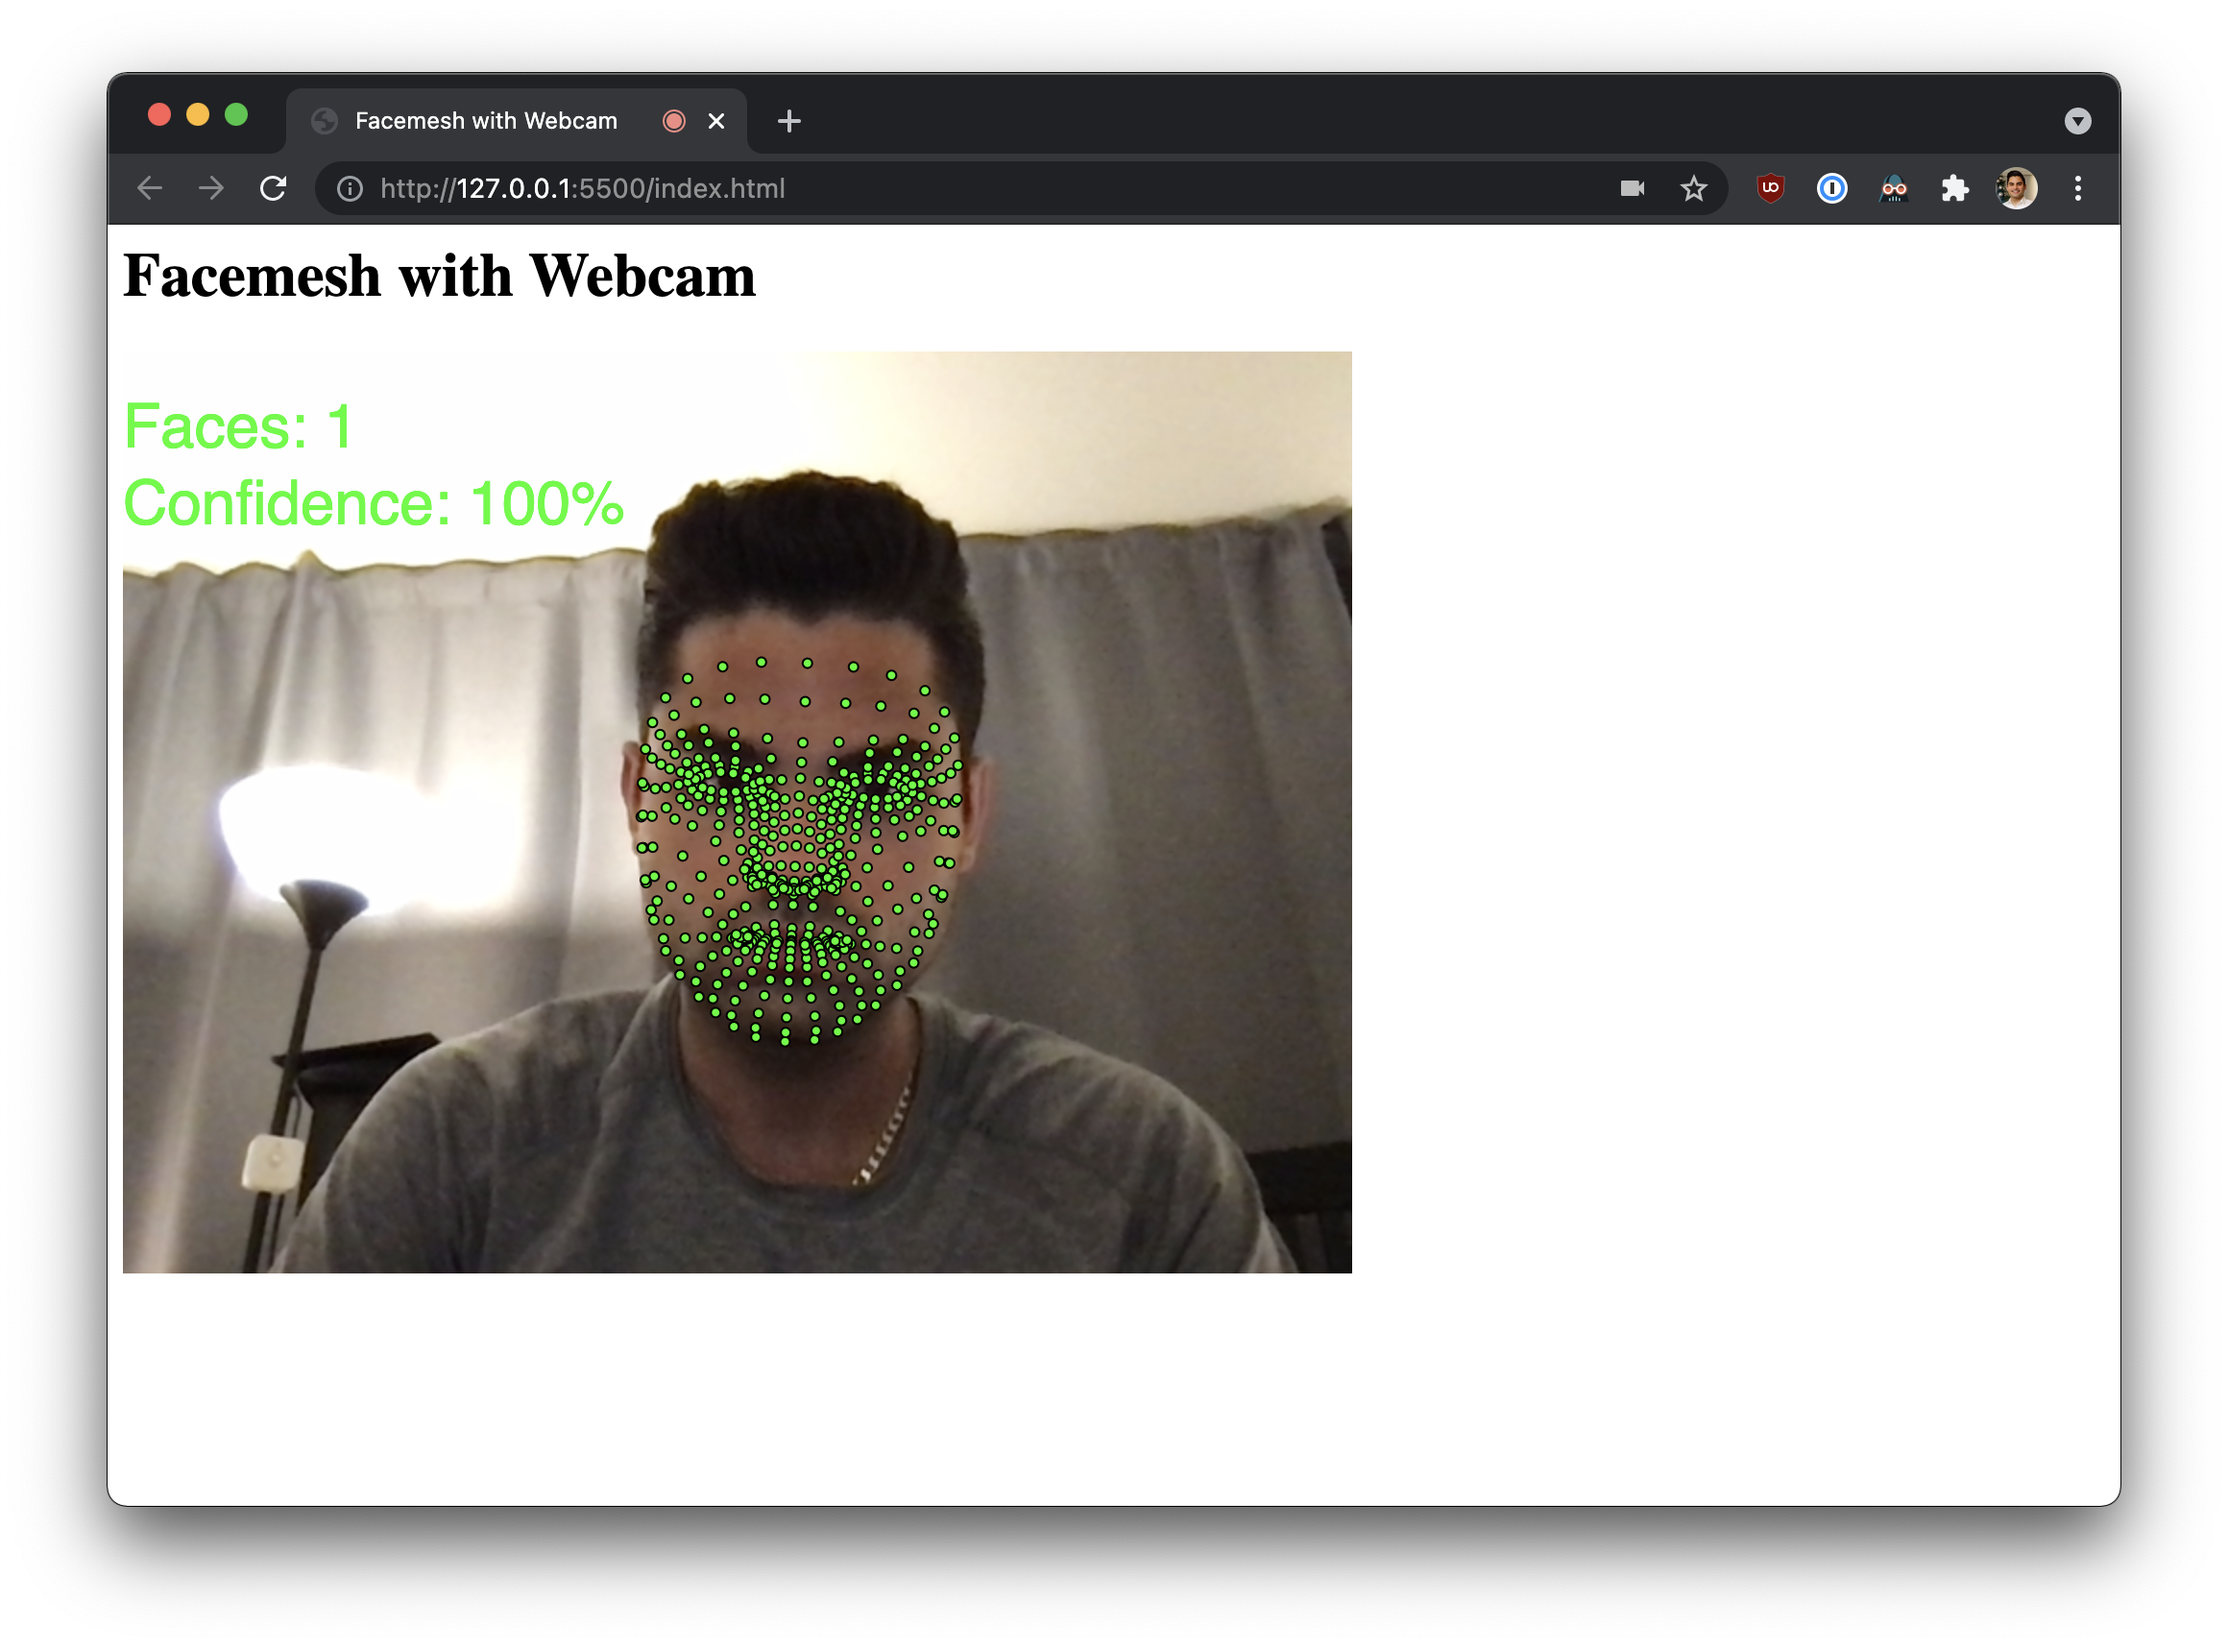
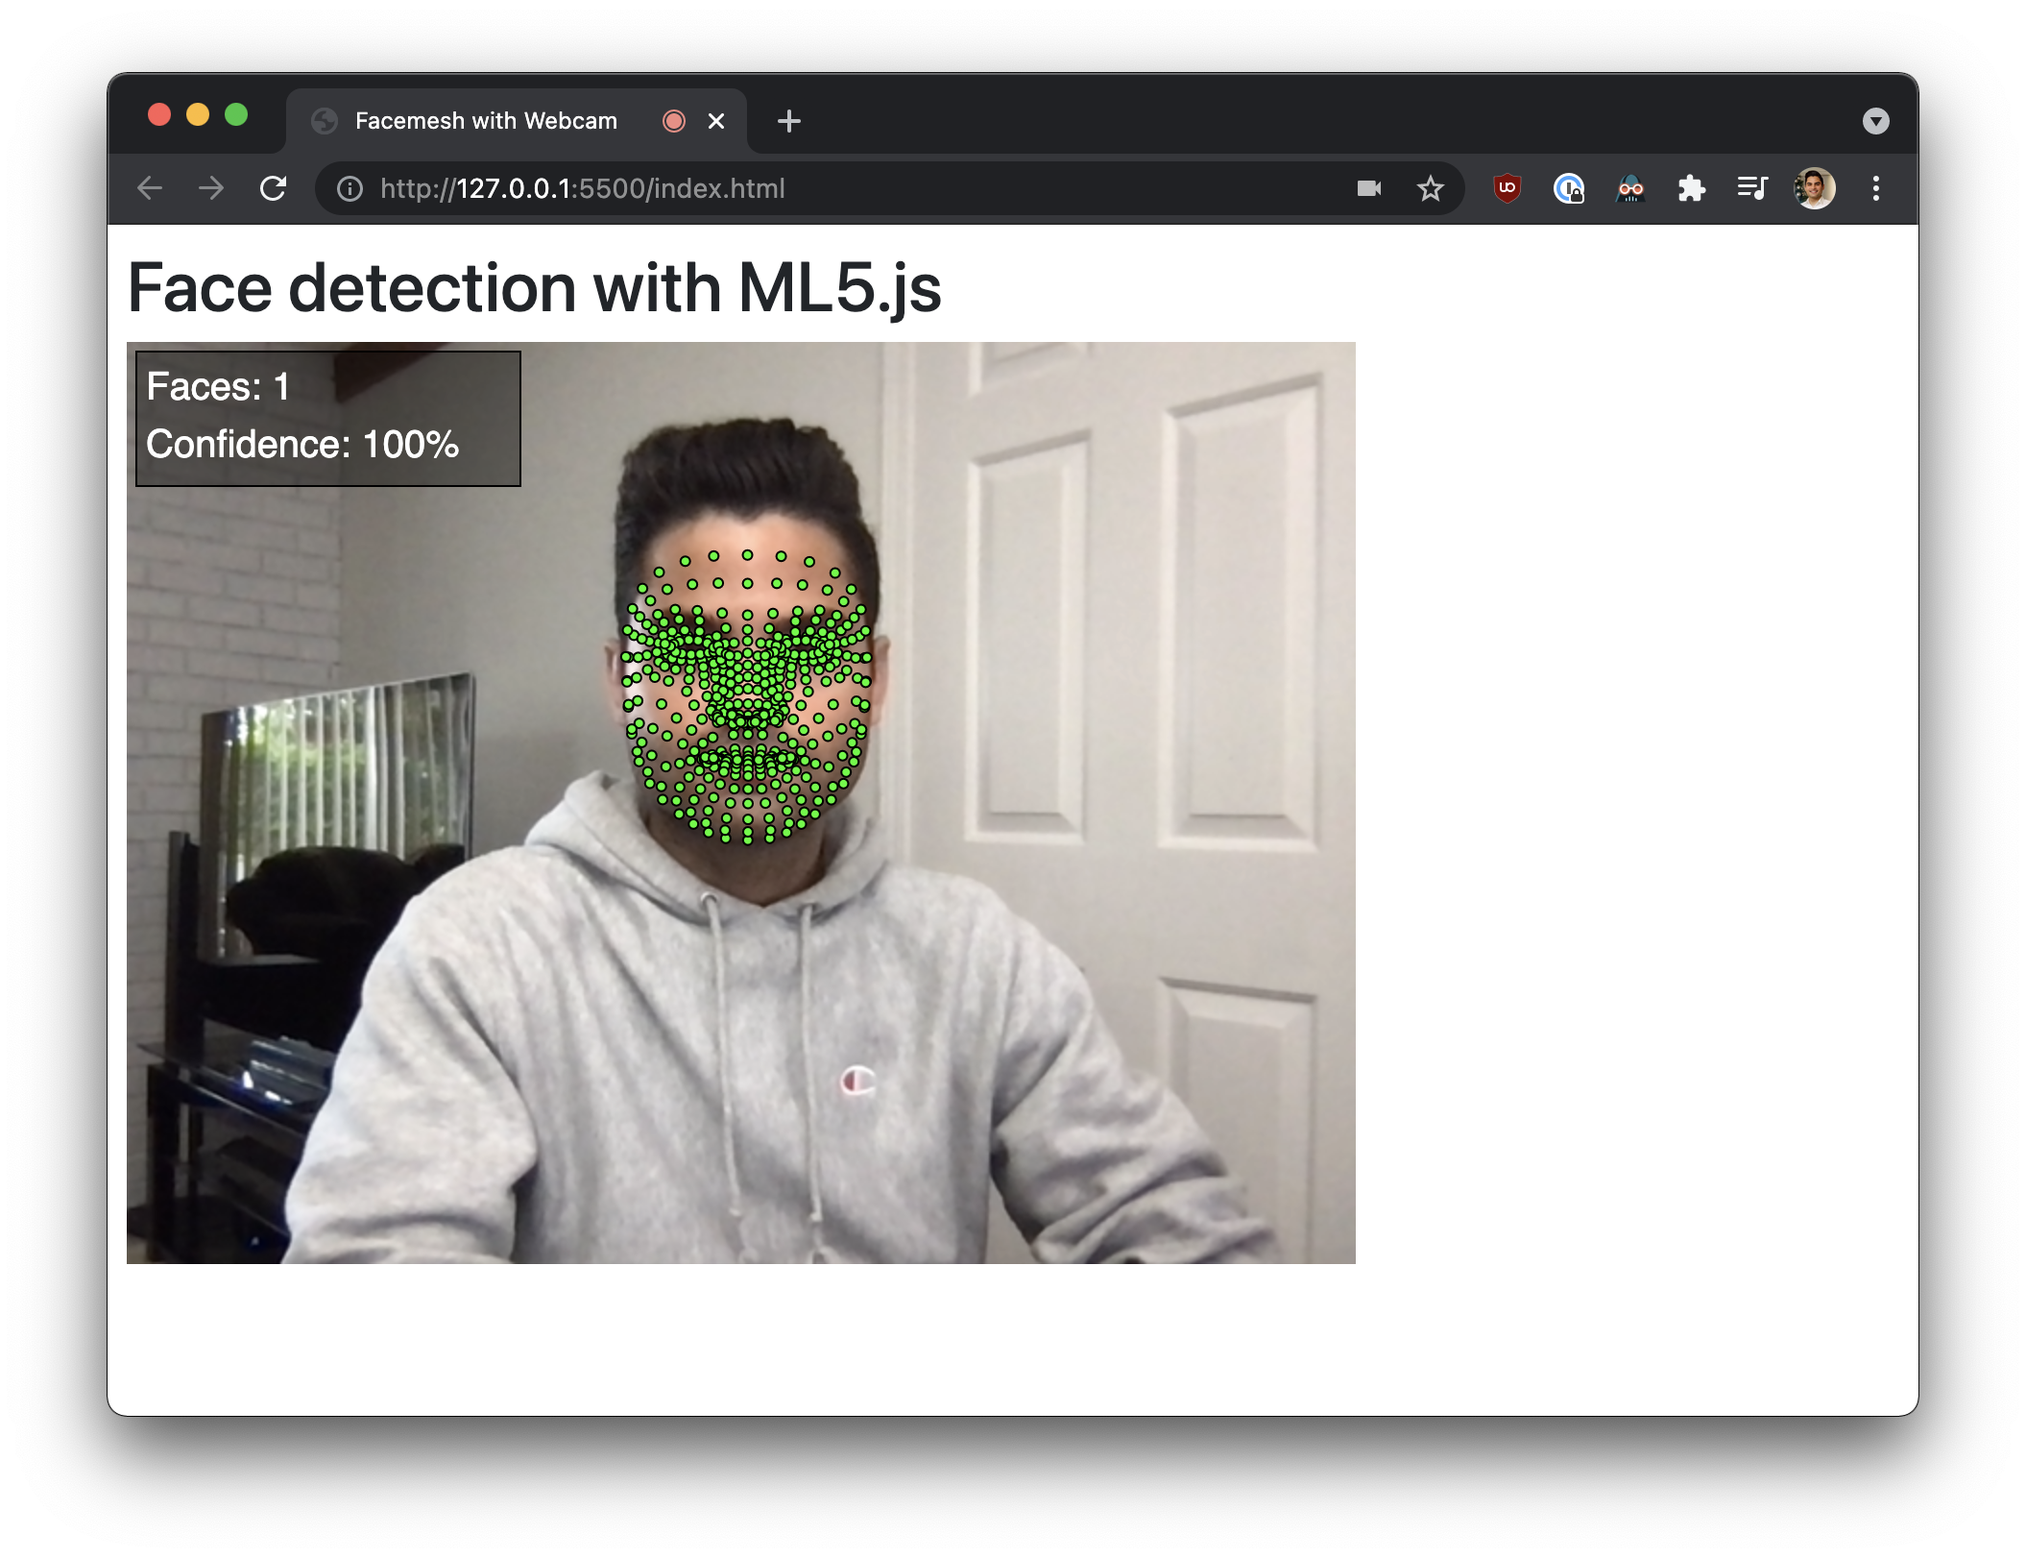
improved interface and font

diff --git a/sketch.js b/sketch.js
@@ -6,7 +6,7 @@ function setup() {
   createCanvas(640, 480);
   video = createCapture(VIDEO);
   video.size(width, height);
-  textSize(width / 20);
+  textSize(20);
 
   facemesh = ml5.facemesh(video, modelReady);
 
@@ -34,22 +34,35 @@ function draw() {
 // A function to draw ellipses over the detected keypoints
 function drawKeypoints() {
   let conf = 0;
-  text("Faces: "+predictions.length, 0, 50 );
   for (let i = 0; i < predictions.length; i += 1) {
     const keypoints = predictions[i].scaledMesh;
-    conf += predictions[i].faceInViewConfidence;
+    // Add up confidence on each face
+    conf += predictions[i].faceInViewConfidence.toFixed(3);
     // Draw facial keypoints.
     for (let j = 0; j < keypoints.length; j += 1) {
       const [x, y] = keypoints[j];
 
       fill(0, 255, 0);
+      stroke(0, 0, 0);
       ellipse(x, y, 5, 5);
     }
   }
+  // Set colors for debug box
+  fill(0, 0, 0, 100);
+  stroke(0, 0, 0);
+  // Draw debug box
+  rect(5,5, 200, 70)
+
+  // Set colour for debug text
+  fill(255, 255, 255);
+  noStroke();
+  // Add debug text
+  text("Faces: "+predictions.length, 10, 30);
+
   if (predictions.length > 0) {
-    text("Confidence: "+((conf/predictions.length).toFixed(3))*100+"%", 0, 90 );
+    text("Confidence: "+((conf/predictions.length))*100+"%", 10, 60);
   } else {
-    text("Confidence: 0", 0, 90 );
+    text("Confidence: 0%", 10, 60 );
   }
   
 }

diff --git a/index.html b/index.html
@@ -5,13 +5,26 @@
     <script src="https://cdnjs.cloudflare.com/ajax/libs/p5.js/0.9.0/p5.min.js"></script>
     <script src="https://cdnjs.cloudflare.com/ajax/libs/p5.js/0.9.0/addons/p5.dom.min.js"></script>
     <script src="https://unpkg.com/ml5@latest/dist/ml5.min.js"></script>
-
-    <style></style>
+    <!-- CSS only -->
+    <link
+      href="https://cdn.jsdelivr.net/npm/bootstrap@5.0.1/dist/css/bootstrap.min.css"
+      rel="stylesheet"
+      integrity="sha384-+0n0xVW2eSR5OomGNYDnhzAbDsOXxcvSN1TPprVMTNDbiYZCxYbOOl7+AMvyTG2x"
+      crossorigin="anonymous"
+    />
+    <style>body {margin:10}</style>
+    <meta name="viewport" content="width=device-width, initial-scale=1">
   </head>
+  <!-- JavaScript Bundle with Popper -->
 
   <script src="sketch.js"></script>
 
   <body>
-    <h1>Facemesh with Webcam</h1>
+    <h1>Face detection with ML5.js</h1>
+      <script
+    src="https://cdn.jsdelivr.net/npm/bootstrap@5.0.1/dist/js/bootstrap.bundle.min.js"
+    integrity="sha384-gtEjrD/SeCtmISkJkNUaaKMoLD0//ElJ19smozuHV6z3Iehds+3Ulb9Bn9Plx0x4"
+    crossorigin="anonymous"
+  ></script>
   </body>
 </html>
